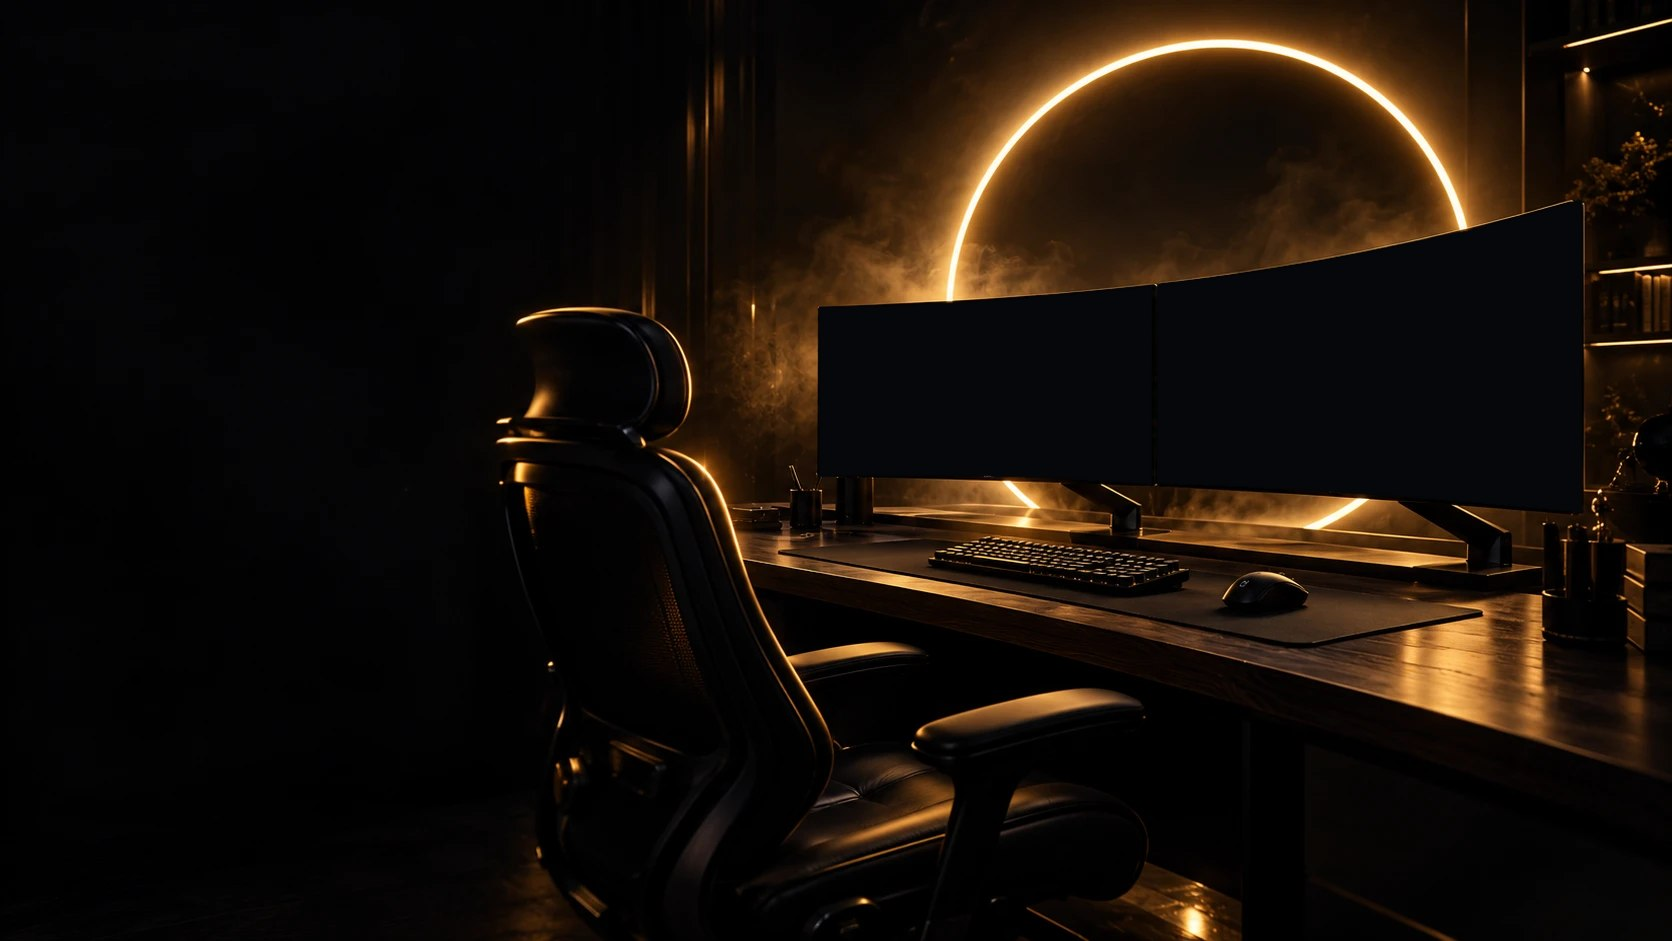
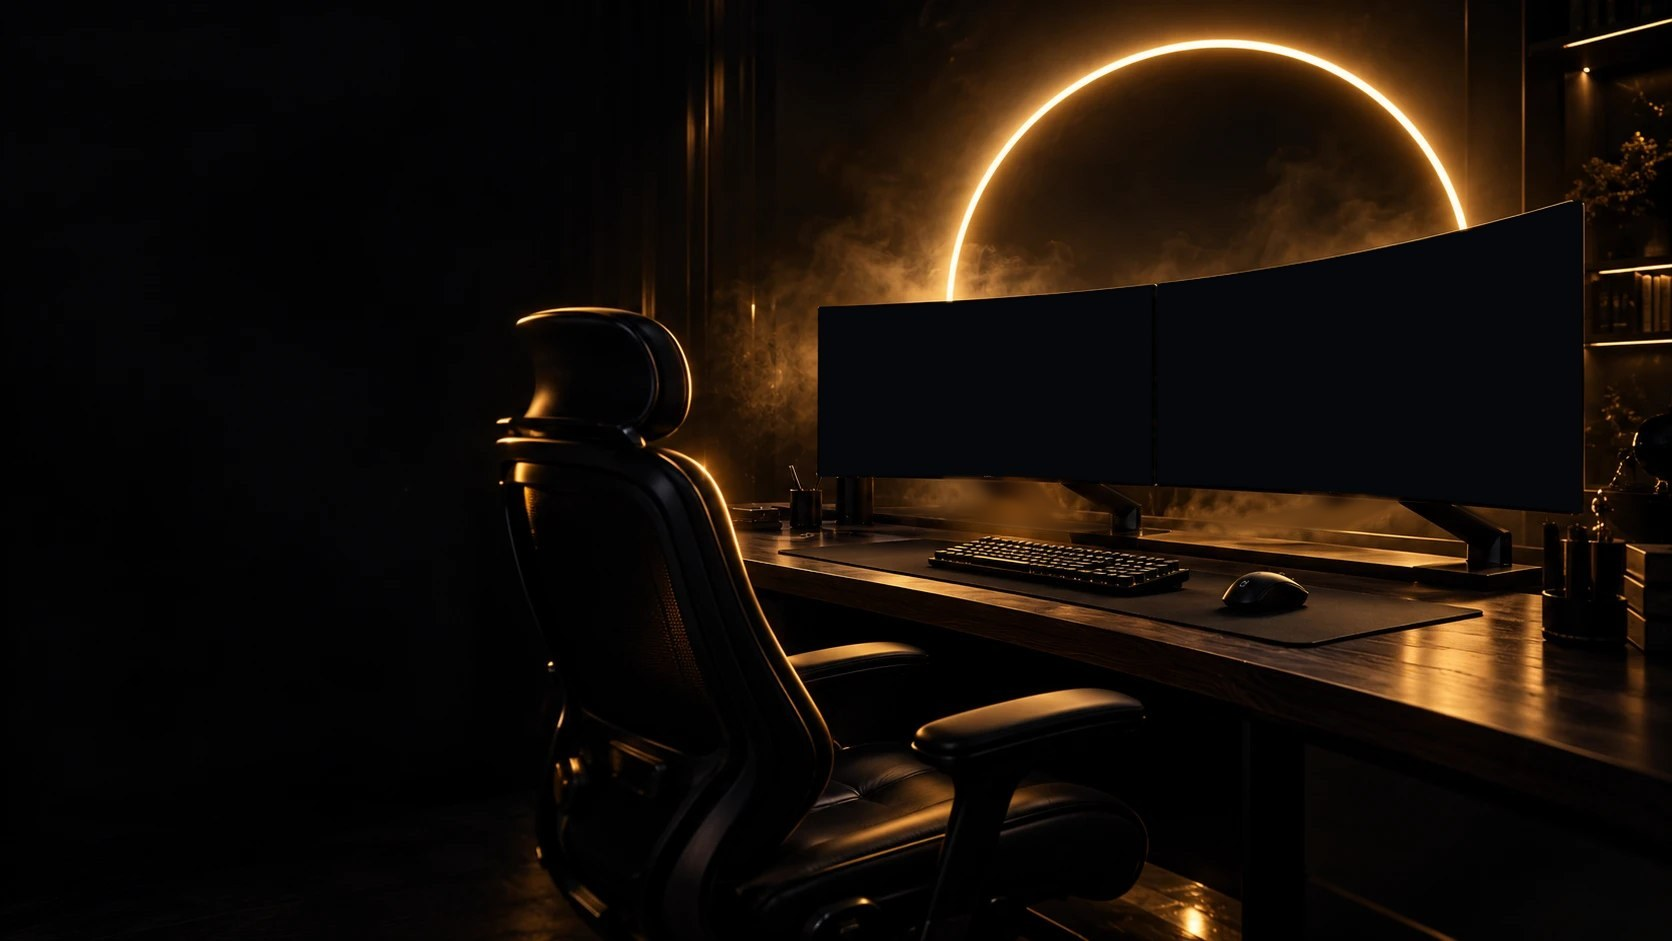
Четыре правки: кольцо первого экрана не вылезает под мониторами, большие слова загораются целиком, перелив в сделках медленнее, подписи на мониторе не закрываются свечами (Сергей 24.10.2026)
1) «Кольцо главного экрана при зажигании налезает на оба монитора снизу… режет неаккуратно». Под обоими
   мониторами в кадре были яркие косые куски кольца; при зажигании их зажигал слой света, и они упирались
   в нижний край экранов. В hero-desk-ring.jpg они закрашены продолжением соседней дымки (только сердцевины
   ярче 100, источник заливки — дымка под мониторами, без тёмной рамки), из hero-ring-light.webp и
   hero-ring-off.webp полоса под мониторами убрана. Кольцо уходит за мониторы и снизу не выходит.
2) «Анимация крупных словосочетаний должна подсвечивать все буквы». Волна со сдвигом 0,35 рад на букву
   доходила только до первых восьми-девяти букв; теперь фронт проходит всю фразу, буквы загораются
   и остаются гореть, у середины экрана горит вся фраза (16 из 16).
3) «Замедлить анимацию перелива карточек сделок»: скан по графику 1,3 с → 2,6 с, очередь 70 → 120 мс.
4) «На мониторе график закрывает слово вход и тейк в конце… особенно на телефоне». Подписи линий —
   на тёмной плашке, «тейк» подписан у левого конца линии, на телефоне шрифт 10,5 вместо 9; на узком
   экране подпись стопа гаснет после переноса в безубыток, подпись тейка уступает место «тейк взят»,
   «безубыток» стоит под линией у правого края; метки не выходят за край графика. В прежнем окне
   (без WebGL) — та же плашка и тейк слева.
Проверено на сборке: под мониторами при зажигании и после нет штрихов (компьютер, телефон), большие слова
[…]

Changed region(s): [[0.5287, 0.4931, 0.6842, 0.5855], [0.7153, 0.5239, 0.8397, 0.5855], [0.8708, 0.5239, 0.9019, 0.5547]]

diff --git a/src/components/landing/terminalPaint.ts b/src/components/landing/terminalPaint.ts
@@ -285,7 +285,10 @@ export class TerminalPainter {
     const hitNow = t >= 9.5 && live - 0.5 >= geo.hitIdx;
     if (hitNow && this.hitAt < 0) this.hitAt = t;
     if (t < 9.5) this.hitAt = -1;
-    const line = (y: number, from: number, color: string, dash: boolean, a: number, label: string, labelColor: string, left: boolean, glow = 0) => {
+    // 24.10.2026, Сергей: «график закрывает слово вход и тейк в конце… особенно на телефоне». Подписи — на тёмной
+    // плашке поверх свечей, тейк подписан у левого конца линии (там цена ещё внизу), на телефоне шрифт крупнее
+    const fs = this.narrow ? 10.5 : 9;
+    const line = (y: number, from: number, color: string, dash: boolean, a: number, label: string, labelColor: string, left: boolean, glow = 0, labelA = 1) => {
       if (a <= 0) return;
       ctx.globalAlpha = a;
       const yy = Math.round(y) + 0.5;
@@ -299,37 +302,49 @@ export class TerminalPainter {
       ctx.beginPath(); ctx.moveTo(lineX0(from), yy); ctx.lineTo(lineX1, yy); ctx.stroke();
       ctx.setLineDash([]);
       if (glow > 0) ctx.restore();
-      ctx.font = `9px ${MONO}`;
+      if (labelA <= 0.01) { ctx.globalAlpha = 1; return; }
+      ctx.globalAlpha = a * labelA;
+      ctx.font = `${fs}px ${MONO}`;
+      const sp = fs * 0.14;
+      const tw = Array.from(label).reduce((sum, ch) => sum + charW(ctx, ch), 0) + sp * (label.length - 1);
+      const lx = left ? lineX0(from) : lineX1 - tw;
+      rr(ctx, lx - 4, yy - 7 - fs - 2, tw + 8, fs + 6, 3);
+      ctx.fillStyle = 'rgba(10,7,4,0.86)';
+      ctx.fill();
       ctx.fillStyle = labelColor;
       ctx.textBaseline = 'alphabetic';
-      spaced(ctx, label, left ? lineX0(from) : lineX1, yy - 6, 1.26, left ? 'left' : 'right');
+      spaced(ctx, label, lx, yy - 6, sp, 'left');
       ctx.globalAlpha = 1;
     };
     const takeA = show(ease(seg(t, 9.1, 9.7)));
-    line(py(geo.y(geo.take)), SIGNAL, P.accent, !hitNow, takeA, 'ТЕЙК · 9,5R', P.accent, false, hitNow ? 1 : 0);
+    const hit = this.hitAt < 0 ? 0 : ease(seg(t, this.hitAt, this.hitAt + 0.5));
+    // на узком экране подписи у тейка и у входа теснятся: подпись тейка уступает место «тейк взят»,
+    // подпись стопа гаснет, когда стоп переехал в безубыток, а «безубыток» стоит правее
+    line(py(geo.y(geo.take)), SIGNAL, P.accent, !hitNow, takeA, 'ТЕЙК · 9,5R', P.accent, true, hitNow ? 1 : 0, this.narrow ? 1 - hit : 1);
     line(py(geo.y(geo.entry)), ENTRY - 1, '#ffd38a', false, show(ease(seg(t, 6.3, 6.8))), 'ВХОД', '#ffd38a', true);
     const be = ease(seg(t, 12, 12.8));
     const stopY = py(geo.y(geo.stop)) + (py(geo.y(geo.entry)) - py(geo.y(geo.stop))) * be;
-    line(stopY, ENTRY - 1, STOP_LINE, true, ease(seg(t, 9.1, 9.7)) * fade, 'СТОП · 1R', STOP_TEXT, false);
+    line(stopY, ENTRY - 1, STOP_LINE, true, ease(seg(t, 9.1, 9.7)) * fade, 'СТОП · 1R', STOP_TEXT, false, 0, this.narrow ? 1 - be : 1);
 
     // метки: безубыток и тейк взят — над точкой
-    const tag = (x: number, y: number, text: string, a: number, bg: string, fg: string, border?: string) => {
+    const tag = (x: number, y: number, text: string, a: number, bg: string, fg: string, border?: string, below = false) => {
       if (a <= 0) return;
-      ctx.font = `9px ${MONO}`;
-      const w = Array.from(text).reduce((s, ch) => s + charW(ctx, ch), 0) + 1.08 * (text.length - 1) + 14;
-      const h = 9 * 1.5 + 6;
-      const x0 = x - w / 2, y0 = y - h * 1.5;
+      ctx.font = `${fs}px ${MONO}`;
+      const w = Array.from(text).reduce((s, ch) => s + charW(ctx, ch), 0) + fs * 0.12 * (text.length - 1) + 14;
+      const h = fs * 1.5 + 6;
+      // метка не выходит за край графика (на узком экране «безубыток» стоит у правого края)
+      const x0 = Math.min(Math.max(x - w / 2, c.x + 3), c.x + c.w - w - 3), y0 = below ? y + 7 : y - h * 1.5;
       ctx.globalAlpha = a;
       rr(ctx, x0, y0, w, h, 4);
       ctx.fillStyle = bg; ctx.fill();
       if (border) { ctx.strokeStyle = border; ctx.stroke(); }
       ctx.fillStyle = fg;
       ctx.textBaseline = 'middle';
-      spaced(ctx, text, x0 + 7, y0 + h / 2 + 0.5, 1.08);
+      spaced(ctx, text, x0 + 7, y0 + h / 2 + 0.5, fs * 0.12);
       ctx.globalAlpha = 1;
     };
-    tag(px(geo.x(N - 12)), py(geo.y(geo.entry)), 'БЕЗУБЫТОК', show(ease(seg(t, 12.6, 13.1))), BE_BG, P.fg, P.border);
-    const hit = this.hitAt < 0 ? 0 : ease(seg(t, this.hitAt, this.hitAt + 0.5));
+    // на узком экране «безубыток» — под линией у правого края: над линией там подпись «вход»
+    tag(px(geo.x(this.narrow ? N - 6 : N - 12)), py(geo.y(geo.entry)), 'БЕЗУБЫТОК', show(ease(seg(t, 12.6, 13.1))), BE_BG, P.fg, P.border, this.narrow);
     tag(px(geo.x(N - 9)), py(geo.y(geo.take)), 'ТЕЙК ВЗЯТ', show(hit), P.accent, '#111');
 
     // точка цены — на закрытии последней видимой свечи

diff --git a/src/components/preview-next/WordmarkKinetic.tsx b/src/components/preview-next/WordmarkKinetic.tsx
@@ -24,11 +24,17 @@ export default function WordmarkKinetic({
         // 0 when divider center is far, 1 when at viewport center
         const center = r.top + r.height / 2;
         const prox = 1 - Math.min(1, Math.abs(center - vh / 2) / (vh * 0.7));
+        // 24.10.2026, Сергей: «анимация крупных словосочетаний должна подсвечивать все буквы». Прежняя волна
+        // со сдвигом 0,35 рад на букву доходила только до первых восьми-девяти букв. Теперь фронт проходит всю
+        // фразу слева направо, пока она подъезжает к середине экрана: буква подпрыгивает, загорается и остаётся
+        // гореть; у середины горит вся фраза, уходя — гаснет в обратном порядке.
+        const n = letters.length;
         letters.forEach((ltr, i) => {
-          const phase = Math.sin(prox * Math.PI - i * 0.35);
-          const lift = Math.max(0, phase) * prox * 18;
-          ltr.style.transform = `translateY(${-lift}px)`;
-          ltr.style.color = lift > 6 ? 'hsl(var(--accent) / 0.7)' : '';
+          const at = 0.25 + 0.5 * (n > 1 ? i / (n - 1) : 0);
+          const lit = Math.max(0, Math.min(1, (prox - at + 0.12) / 0.24));
+          const hop = Math.exp(-(((prox - at) / 0.09) ** 2));
+          ltr.style.transform = `translateY(${(-hop * 16).toFixed(1)}px)`;
+          ltr.style.color = lit > 0.01 ? `hsl(var(--accent) / ${(0.3 + 0.5 * lit).toFixed(2)})` : '';
         });
       });
     };

diff --git a/src/styles/v3-skin.css b/src/styles/v3-skin.css
@@ -413,7 +413,9 @@
 .td-zone { background: hsl(var(--accent) / 0.16); border: 1px solid hsl(var(--accent) / 0.55); z-index: 1; }
 .td-zone span { position: absolute; left: 6px; bottom: -18px; font-family: 'Martian Mono', monospace; font-size: 9px; letter-spacing: .14em; text-transform: uppercase; color: hsl(var(--accent)); }
 .td-line { height: 0; border-top: 1px dashed; z-index: 2; }
-.td-line span { position: absolute; right: 0; top: -16px; font-family: 'Martian Mono', monospace; font-size: 9px; letter-spacing: .14em; text-transform: uppercase; }
+.td-line span { position: absolute; right: 0; top: -17px; padding: 1px 4px; border-radius: 3px; background: rgba(10,7,4,.86); font-family: 'Martian Mono', monospace; font-size: 9px; letter-spacing: .14em; text-transform: uppercase; }
+/* 24.10.2026: тейк подписан у левого конца линии — справа к концу круга свечи доходят до тейка и закрывали подпись */
+.td-line--take span { right: auto; left: 0; }
 .td-line--entry { border-color: #ffd38a; color: #ffd38a; border-top-style: solid; }
 .td-line--entry span { right: auto; left: 0; }
 .td-line--stop { border-color: oklch(0.62 0.12 25); color: oklch(0.7 0.12 25); }

diff --git a/src/styles/fx.css b/src/styles/fx.css
@@ -109,7 +109,8 @@ html.fx-on .journal__thumb[data-scan]::after {
   height: 100%;
   background: linear-gradient(180deg, transparent 0%, hsl(var(--accent) / 0.16) 50%, hsl(var(--accent) / 0.7) 88%, #fff1d2 94%, transparent 100%);
 }
-html.fx-on .journal__thumb[data-scan][data-scanning]::after { animation-name: fxScanThumb; animation-duration: 1.3s; }
+/* 24.10.2026, Сергей: «замедлить анимацию перелива карточек сделок» — 1,3 с → 2,6 с */
+html.fx-on .journal__thumb[data-scan][data-scanning]::after { animation-name: fxScanThumb; animation-duration: 2.6s; }
 @keyframes fxScanThumb {
   0% { transform: translateY(-100%); opacity: 0; }
   12% { opacity: 1; }

diff --git a/src/hooks/useLandingFx.ts b/src/hooks/useLandingFx.ts
@@ -99,7 +99,7 @@ export default function useLandingFx() {
       el.dataset.in = '';
       // несколько графиков в одной роли (список сделок) сканируются по очереди, как прежде карточки
       el.querySelectorAll<HTMLElement>('[data-scan], [data-shine]').forEach((s, i) => {
-        s.style.setProperty('--sd', `${d + 380 + i * 70}ms`);
+        s.style.setProperty('--sd', `${d + 380 + i * 120}ms`);
         if (s.hasAttribute('data-scan')) s.dataset.scanning = '';
         else s.dataset.shining = '';
       });
